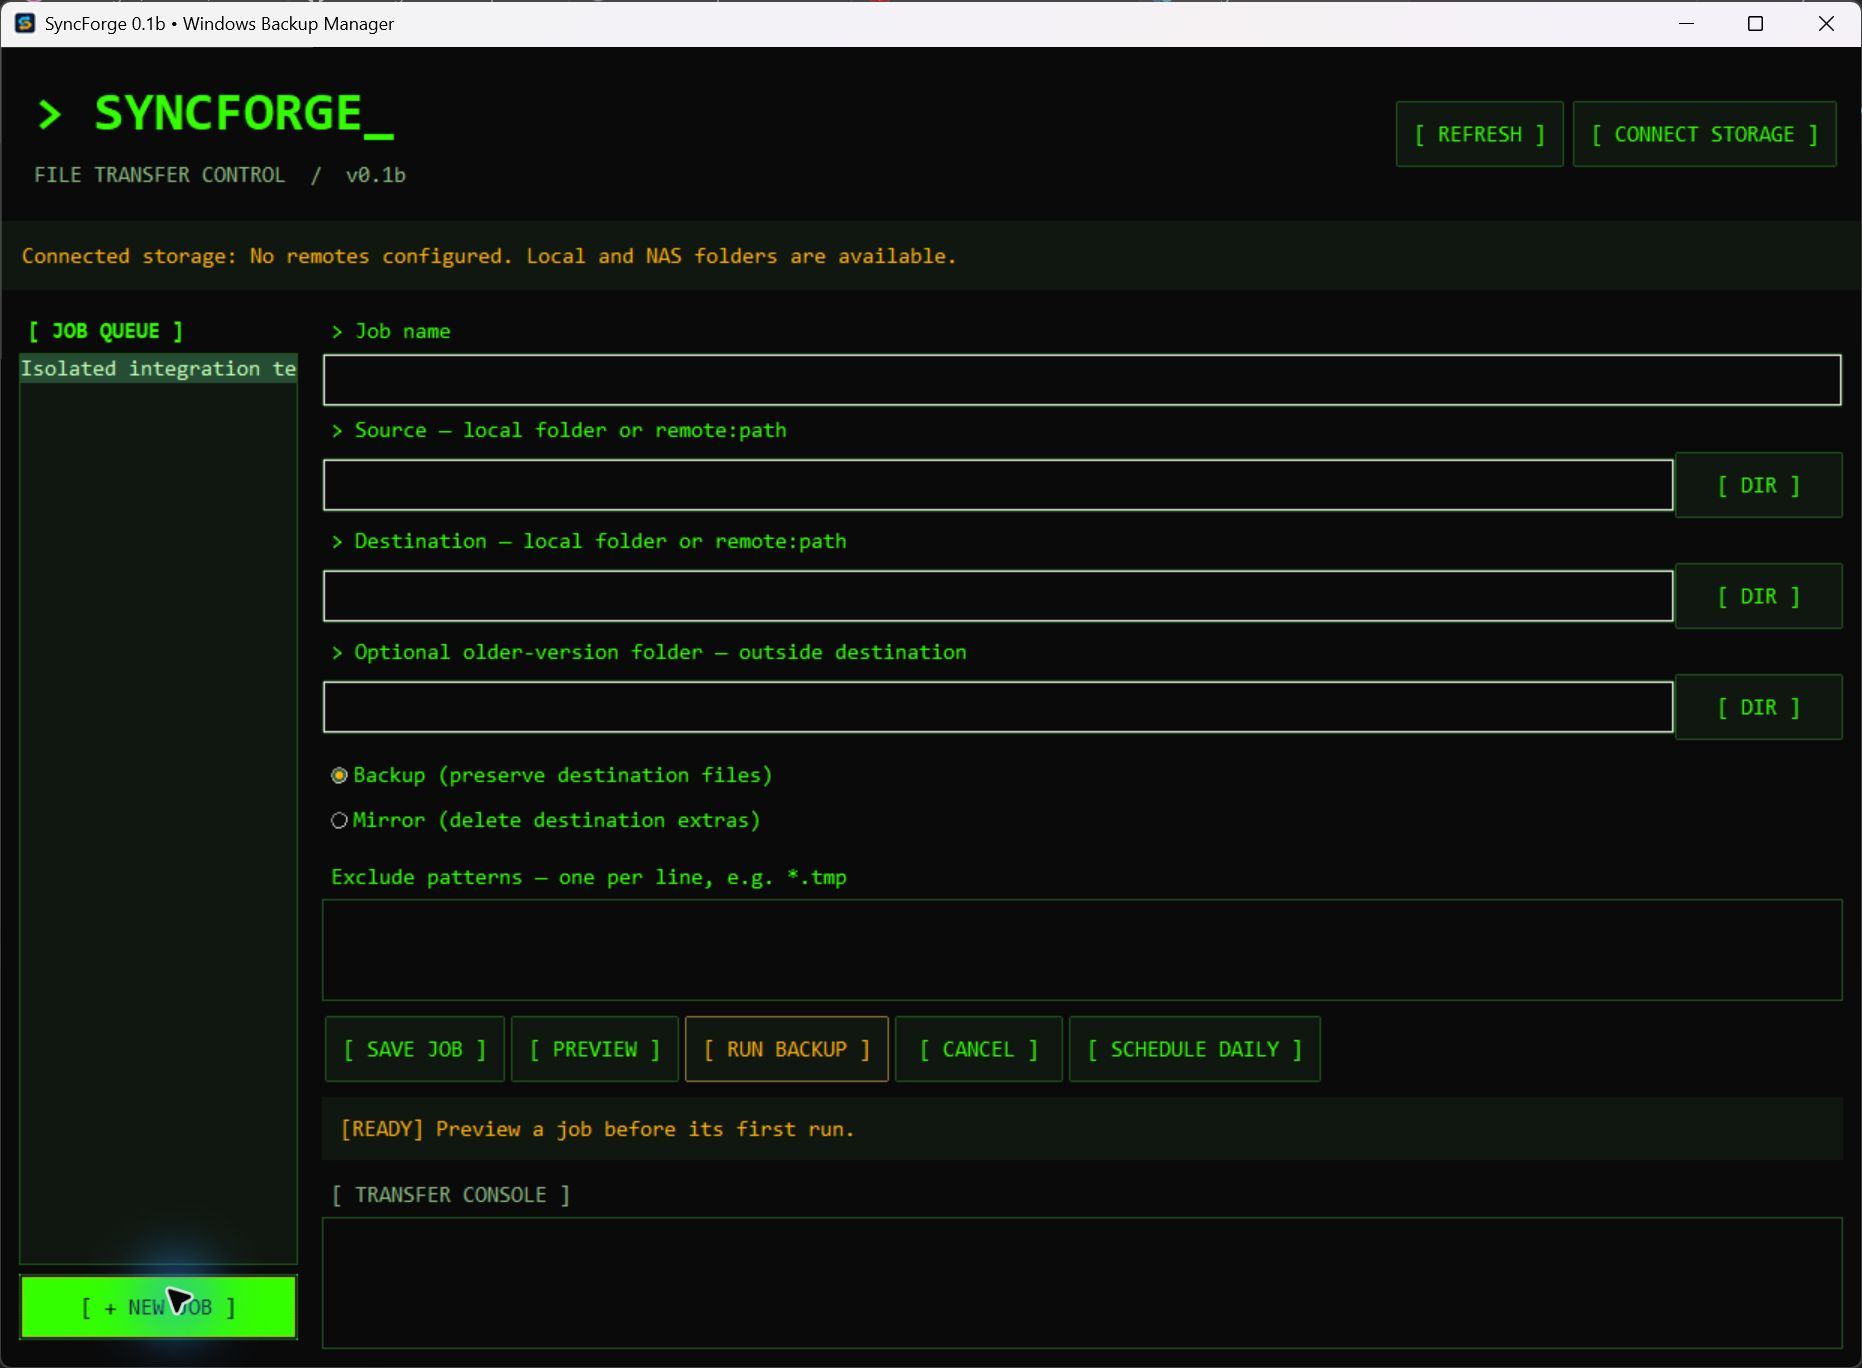
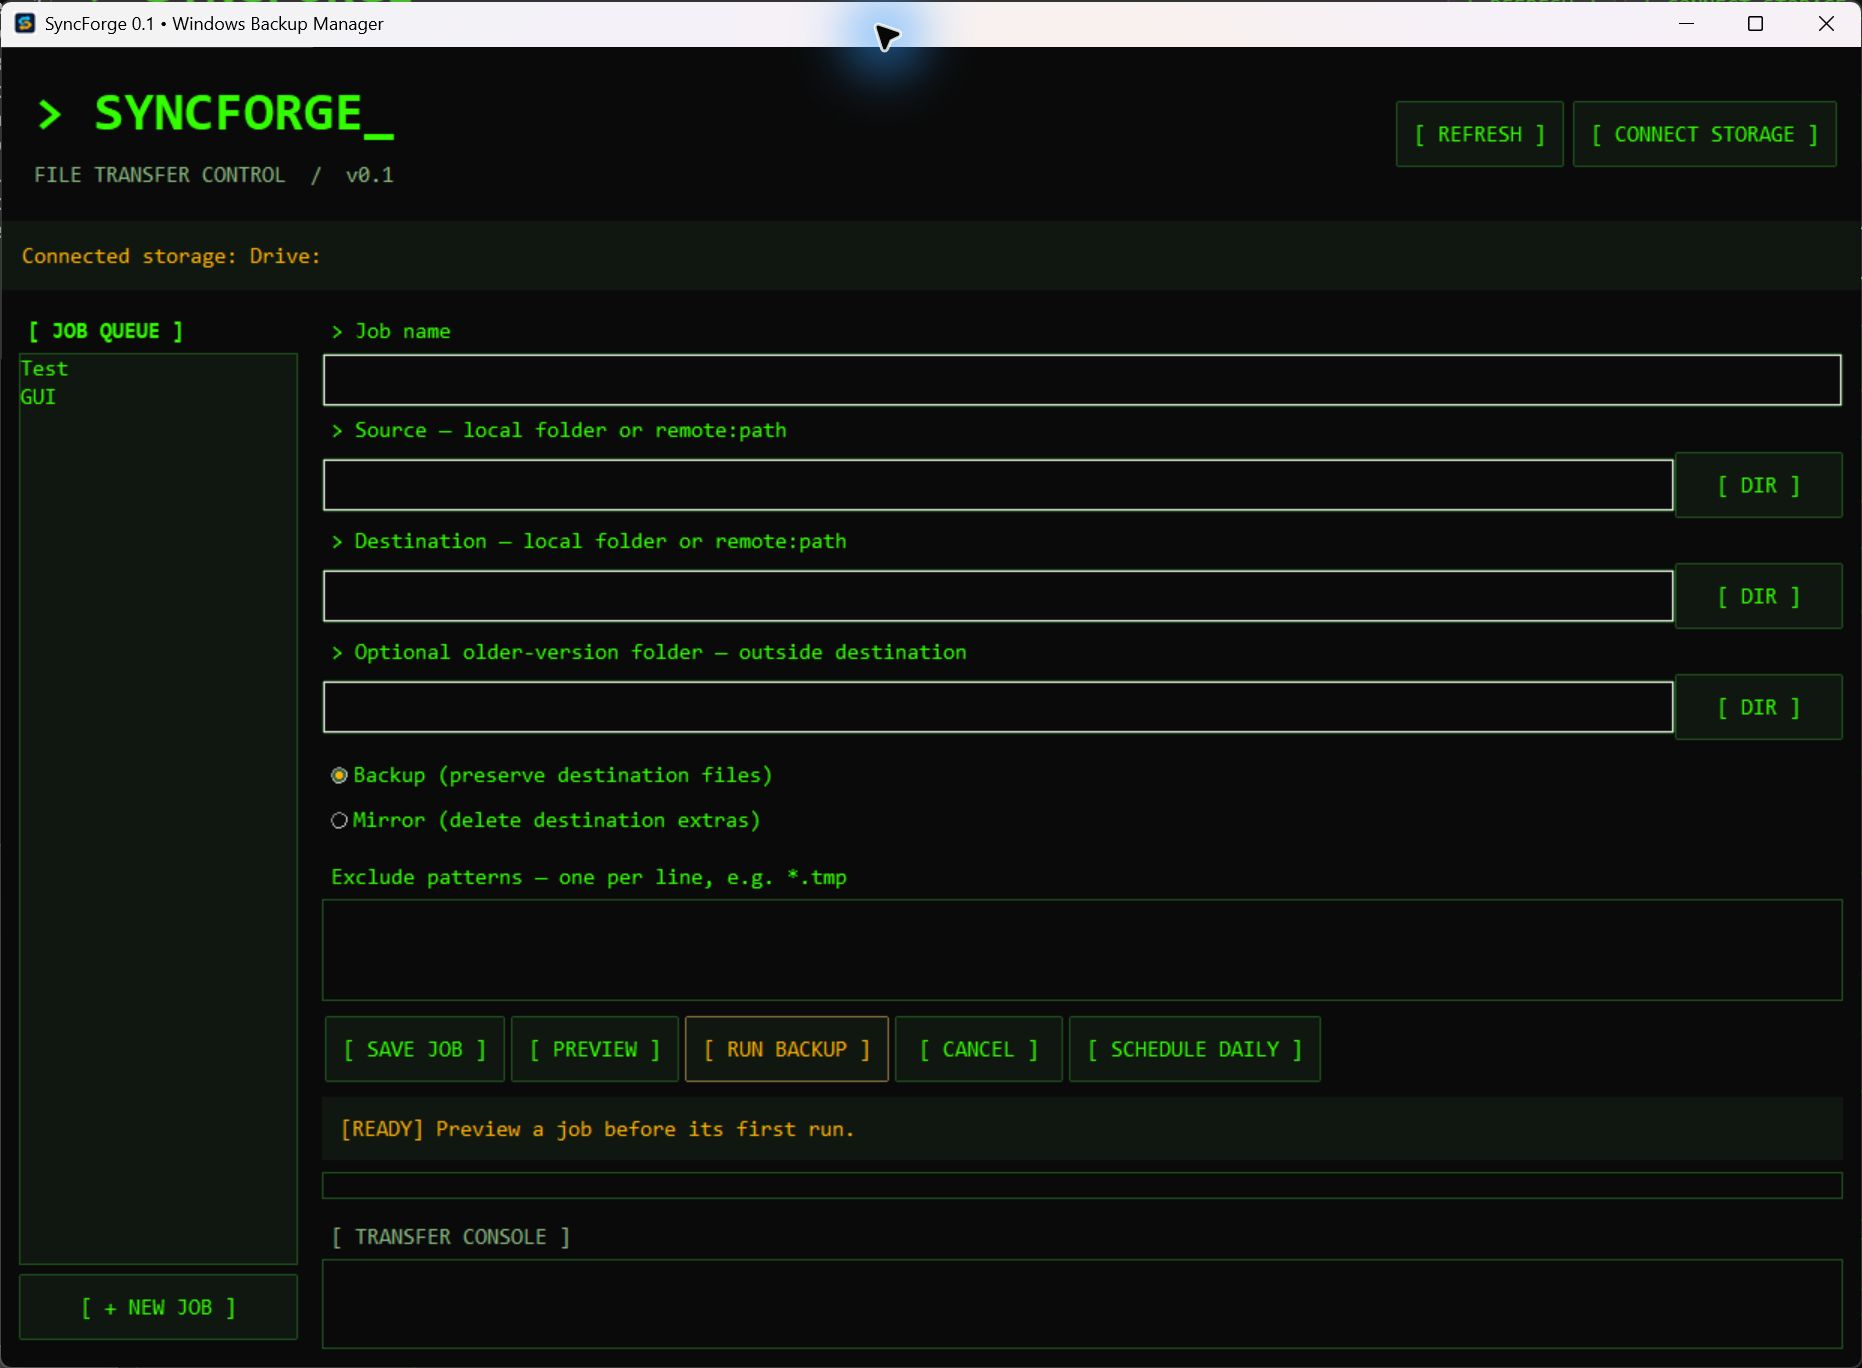
Release SyncForge 0.1 Official

diff --git a/app.py b/app.py
@@ -12,7 +12,7 @@ import tkinter as tk
 from tkinter import ttk, filedialog, messagebox, simpledialog
 from tkinter import font as tkfont
 
-VERSION = '0.1b'
+VERSION = '0.1'
 ASSETS = Path(getattr(sys, '_MEIPASS', Path(__file__).resolve().parent)) / 'assets'
 DATA = Path(os.environ.get('LOCALAPPDATA', Path.home())) / 'SyncForge'
 LEGACY_DATA = DATA.parent / 'RcloneDesk'
@@ -58,7 +58,7 @@ def command(job, preview=False):
     if not source or not destination or source.rstrip('/\\').casefold() == destination.rstrip('/\\').casefold():
         raise ValueError('Choose different, nonempty source and destination paths.')
     args = [rclone_executable(), job['mode'], source, destination,
-            '--stats', '1s', '--stats-one-line', '--log-level', 'INFO']
+            '--stats', '1s', '--stats-one-line', '--log-level', 'INFO', '--use-json-log']
     if preview:
         args.append('--dry-run')
     for pattern in job.get('excludes', '').splitlines():
@@ -120,6 +120,9 @@ class App(tk.Tk):
                   indicatorbackground=[('selected', '#376347')])
         style.configure('Status.TLabel', foreground=amber, background=panel, padding=10)
         style.configure('Muted.TLabel', foreground=muted)
+        style.configure('Terminal.Horizontal.TProgressbar', background=green,
+                        troughcolor=field, bordercolor='#1f521f',
+                        lightcolor=green, darkcolor=green, thickness=12)
         header = ttk.Frame(self, padding=16)
         header.pack(fill='x')
         title = ttk.Frame(header)
@@ -177,6 +180,9 @@ class App(tk.Tk):
                        style='Primary.TButton' if label == 'Run backup' else 'TButton').pack(side='left', padx=2)
         self.status = ttk.Label(right, text='[READY] Preview a job before its first run.', style='Status.TLabel')
         self.status.pack(fill='x', pady=(0, 8))
+        self.progress = ttk.Progressbar(right, style='Terminal.Horizontal.TProgressbar',
+                                        mode='determinate', maximum=100)
+        self.progress.pack(fill='x', pady=(0, 10))
         ttk.Label(right, text='[ TRANSFER CONSOLE ]', style='Muted.TLabel').pack(anchor='w')
         self.output = tk.Text(right, height=13, bg=field, fg=green, font=(mono, 11), wrap='word',
                               insertbackground=amber, highlightbackground='#1f521f',
@@ -272,10 +278,20 @@ class App(tk.Tk):
             return
         process = self.process
         self.status.config(text='Preview running…' if preview else 'Backup running…')
+        self.preview_running = preview
+        self.progress.configure(mode='indeterminate', value=0)
+        self.progress.start(15)
         self.output.delete('1.0', 'end')
         def worker():
             for line in process.stdout:
-                self.events.put(('log', line))
+                try:
+                    entry = json.loads(line)
+                    stats = entry.get('stats', {})
+                    if stats:
+                        self.events.put(('progress', stats))
+                    self.events.put(('log', entry.get('msg', line).rstrip() + '\n'))
+                except (ValueError, TypeError, AttributeError):
+                    self.events.put(('log', line))
             self.events.put(('done', process.wait()))
         threading.Thread(target=worker, daemon=True).start()
 
@@ -293,8 +309,22 @@ class App(tk.Tk):
                     self.output.see('end')
                 elif kind == 'connections':
                     self.connections.config(text=value)
+                elif kind == 'progress':
+                    total = value.get('totalBytes', 0)
+                    transferred = value.get('bytes', 0)
+                    total_files = value.get('totalTransfers', 0)
+                    files = value.get('transfers', 0)
+                    if total > 0 or total_files > 0:
+                        fraction = transferred / total if total > 0 else files / total_files
+                        percent = max(0, min(100, fraction * 100))
+                        self.progress.stop()
+                        self.progress.configure(mode='determinate', value=percent)
+                        action = 'Preview' if self.preview_running else 'Backup'
+                        self.status.config(text=f'{action} running… {percent:.0f}% | {files}/{total_files} files')
                 elif kind == 'done':
                     self.process = None
+                    self.progress.stop()
+                    self.progress.configure(mode='determinate', value=100 if value == 0 else 0)
                     self.status.config(text='Completed successfully.' if value == 0 else f'Stopped with exit code {value}. See log.')
         except queue.Empty:
             pass
@@ -333,4 +363,9 @@ class App(tk.Tk):
 if __name__ == '__main__':
     if len(sys.argv) == 3 and sys.argv[1] == '--run-job':
         sys.exit(scheduled_run(sys.argv[2]))
+    if sys.platform == 'win32':
+        # Set before creating Tk's root so Windows groups the window as
+        # SyncForge rather than inheriting the Python host's taskbar identity.
+        import ctypes
+        ctypes.windll.shell32.SetCurrentProcessExplicitAppUserModelID('SyncForge.Desktop')
     App().mainloop()

diff --git a/release-notes.md b/release-notes.md
@@ -1,24 +1,32 @@
-SyncForge 0.1b Terminal Update refreshes the Windows GUI with a retro terminal theme.
+# SyncForge 0.1 Official
 
-![SyncForge terminal GUI](https://raw.githubusercontent.com/Anon0ne/SyncForge/v0.1b-terminal/assets/syncforge-terminal.png)
+Windows desktop backup and synchronization powered by rclone.
 
-New: phosphor-green text, amber accents, monospace typography, square panes,
-bracketed controls, and inverted hover states. Inspired by the Terminal CLI
-preset at https://www.designprompts.dev/terminal.
+![SyncForge terminal interface](https://raw.githubusercontent.com/Anon0ne/SyncForge/v0.1/assets/syncforge-terminal.png)
 
-**Downloads:** use the Windows ZIP for automatic rclone setup. The standalone
-SyncForge.exe includes Python but requires rclone to be installed already.
+## Download and run
 
-**Validation:** compiled EXE tested with temporary files for copy, exclusions,
-updates, version preservation, backup preservation, mirror deletion, job logs,
-and GUI startup. Cloud transfers and Task Scheduler execution remain untested.
+Download **SyncForge-0.1-windows-x64.zip**, extract it to a permanent folder, and
+run **Start SyncForge.cmd**. The launcher installs rclone if needed and adds it
+to your user PATH. Python is included.
 
-Download the Windows ZIP, extract it, and run **Start SyncForge.cmd**. The launcher
-sets up rclone automatically. The packaged app includes Python; source users need
-Python 3 with Tkinter.
+**SyncForge.exe** is also available separately for systems with rclone installed.
 
-Includes saved jobs, backup/mirror modes, dry-run previews, exclusions, version
-folders, live logs, cancellation, and daily schedules.
+## Included
 
-This beta is unsigned. Remote configuration uses rclone's console wizard, and
-remote paths are typed manually. See README.md for scheduling and backup limits.
+- Green-on-black terminal interface with amber accents and monospace fonts.
+- Saved backup and mirror jobs, previews, exclusions, and live logs.
+- Transfer progress bar and scanning activity indicator.
+- Older-version folders and daily Windows Task Scheduler jobs.
+- SyncForge application icon and Windows taskbar identity.
+
+## Validation and limits
+
+Compiled EXE tested using temporary files for copying, exclusions, updates,
+version preservation, destination preservation in backup mode, mirror deletion,
+job logs, and GUI startup. Progress percentage and completion state also checked.
+Cloud transfers and Task Scheduler execution have not been verified.
+
+Remote setup uses rclone's console wizard; remote paths are entered manually.
+Schedules require the account to be signed in and the computer awake. No overlap
+prevention, retention cleanup, or restore wizard yet. The executable is unsigned.

diff --git a/README.md b/README.md
@@ -1,17 +1,17 @@
-# SyncForge 0.1b
+# SyncForge 0.1
 
 A Windows desktop GUI for rclone, built with Python's included Tkinter toolkit.
 
 ![SyncForge terminal-style Windows GUI](assets/syncforge-terminal.png)
 
-## Terminal update
+## Official release
 
-The 0.1b Terminal Update adds a phosphor-green and amber interface, monospace
+SyncForge 0.1 includes a phosphor-green and amber interface, monospace
 type, square panes, bracketed controls, and inverted hover states inspired by
 the [Terminal CLI design preset](https://www.designprompts.dev/terminal).
 
 Get the Windows ZIP or standalone EXE from
-[GitHub Releases](https://github.com/Anon0ne/SyncForge/releases/tag/v0.1b-terminal).
+[GitHub Releases](https://github.com/Anon0ne/SyncForge/releases/tag/v0.1).
 The ZIP includes the launcher that automatically installs rclone. The standalone
 EXE needs rclone installed already. Both include Python.
 
@@ -55,12 +55,12 @@ configuration, exclusions, preview, live logs, cancellation, older-version
 folders, and daily schedules. Remote folder browsing, a restore wizard,
 retention cleanup, installer packaging, and overlap prevention are future work.
 
-## Windows beta download
+## Windows release download
 
 Download the ZIP from GitHub Releases, extract it, and run Start SyncForge.cmd. The executable includes Python. Keep the extracted folder in a permanent location if you create schedules.
 
 ## Build from source
 
-Install Python 3, Pillow and PyInstaller, then run powershell -ExecutionPolicy Bypass -File build.ps1. Output is dist/SyncForge-0.1b-windows-x64.zip.
+Install Python 3, Pillow and PyInstaller, then run powershell -ExecutionPolicy Bypass -File build.ps1. Output is dist/SyncForge-0.1-windows-x64.zip.
 
-The icon was generated with OpenAI ImageGen. SyncForge is an independent GUI for rclone. Rclone is downloaded separately from its official distribution.
+SyncForge is an independent GUI for rclone. Rclone is downloaded separately from its official distribution.

diff --git a/CHANGELOG.md b/CHANGELOG.md
@@ -1,5 +1,15 @@
 # Changelog
 
+## 0.1 Official
+
+- Stable release of the terminal-style Windows desktop app.
+- Green transfer progress bar with rclone byte and file counts.
+- Activity indicator while scanning and completion status.
+- Windows application identity and compiled desktop shortcut icon.
+- Standalone EXE and ZIP with automatic rclone setup.
+- Verified packaged backup, exclusions, versioning, mirror, logs, and startup.
+
+
 ## 0.1b Terminal Update
 
 - Replaced default widget styling with a green-on-black terminal interface.
